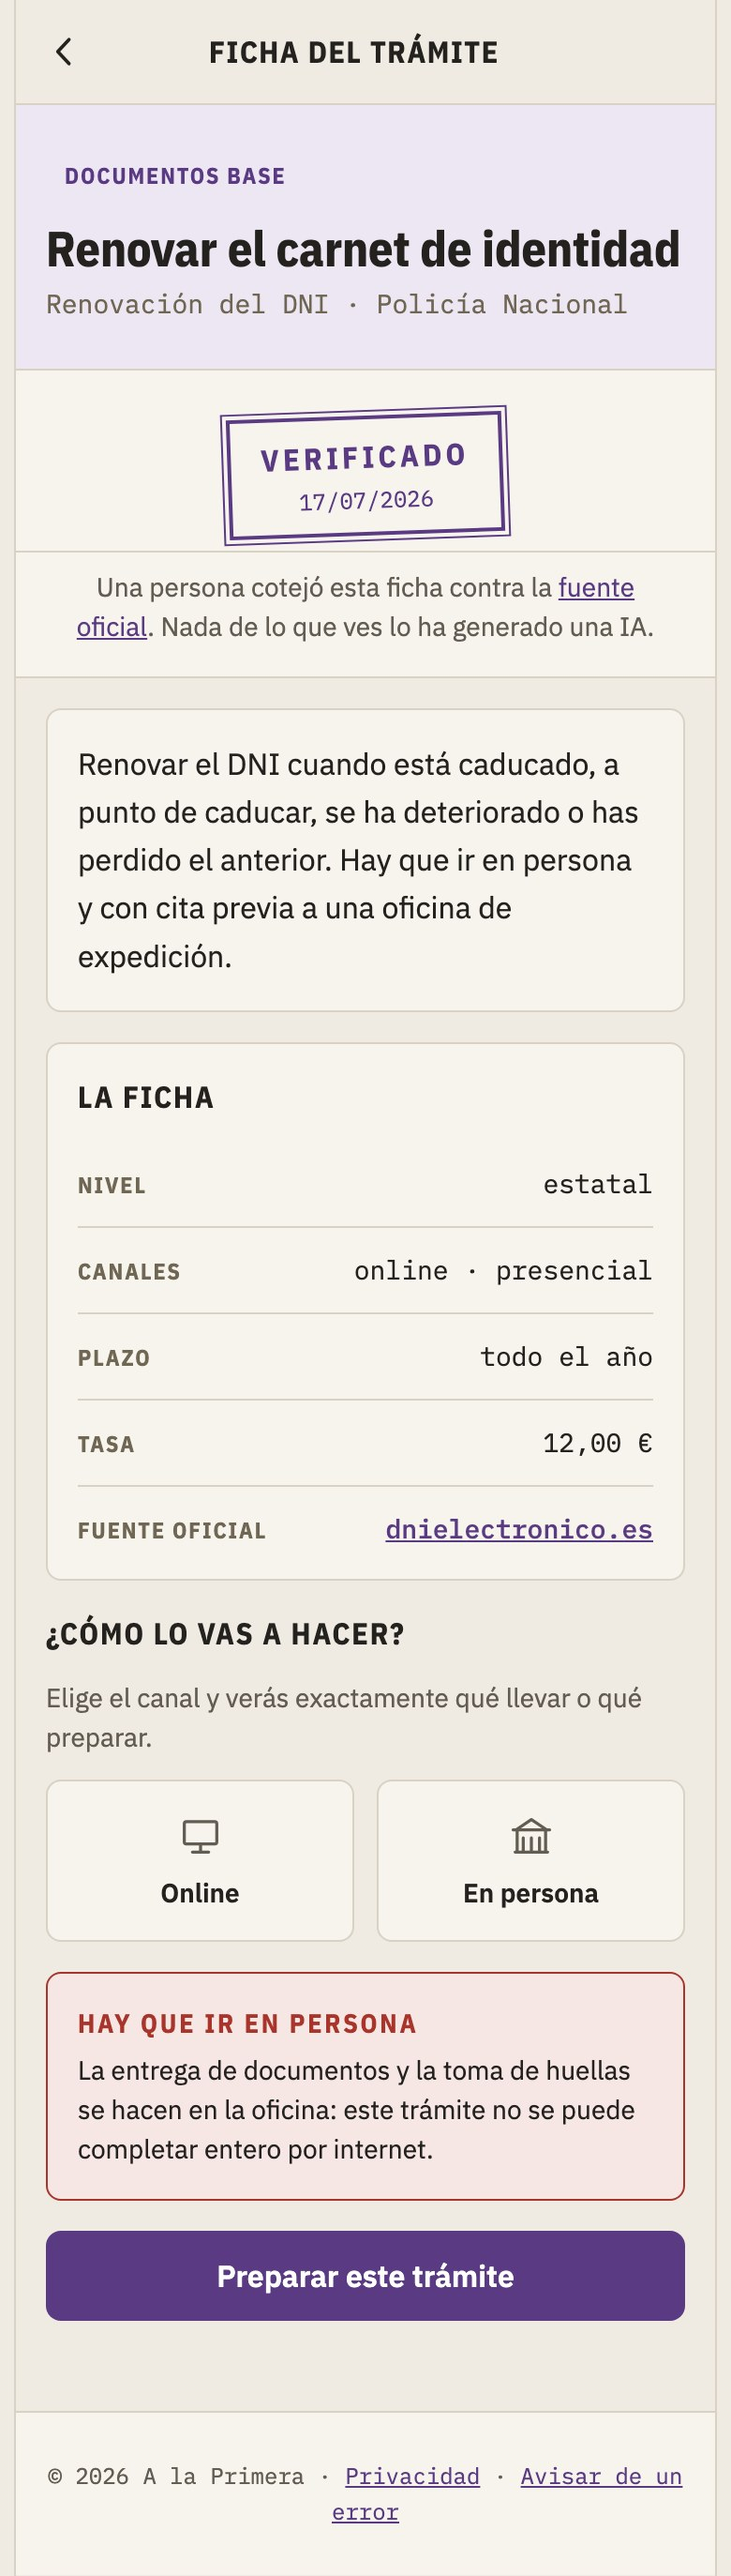
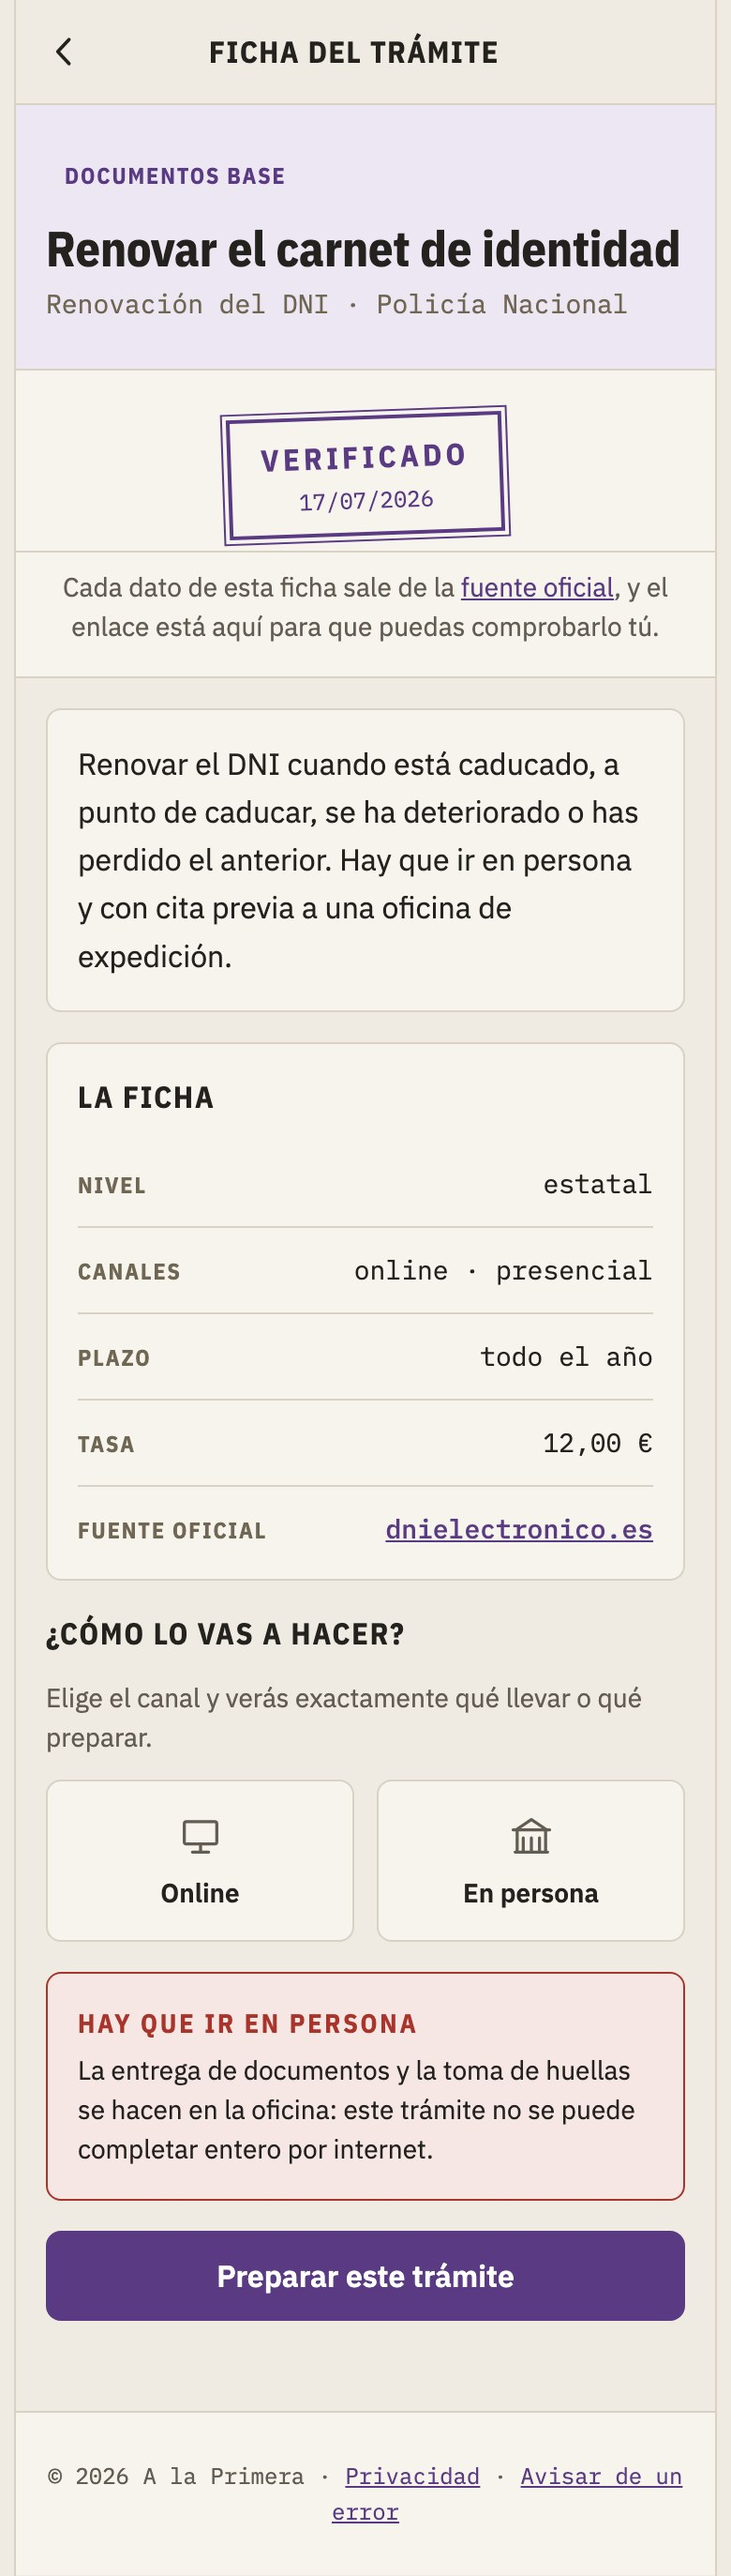
Alinear la ficha con lo que ya dice la app, y sacar la estrella del lenguaje del sello
Dos cosas que chocaban.

La maqueta decía "Una persona cotejó esta ficha contra la fuente oficial. Nada de
lo que ves lo ha generado una IA", pero la app estampa desde hace tiempo "Por
verificar · obtenida con IA · confirma en la fuente" (SelloVerificacion.tsx:34).
El producto ya era honesto y la maqueta se había quedado con una frase que además
hoy no es cierta de ninguna ficha: ninguna de las 22 tiene cotejo humano y la
extracción sí es asistida por IA. La ficha dice ahora lo que sí se sostiene: cada
dato sale de la fuente oficial y el enlace está ahí para comprobarlo.

Y en el cartel, la pantalla estrella se marcaba con un estampado igual que el
sello de verificación: mismo dibujo para dos significados, que es justo lo que
prohíbe el DESIGN.md, y encima no destacaba porque se confundía con el de dentro
de la pantalla. Pasa a una cabecera maciza con icono, que no se parece a nada del
producto.

Changed region(s): [[0.0923, 0.2167, 0.8923, 0.2476]]

diff --git a/diseño/cartel.html b/diseño/cartel.html
@@ -243,21 +243,50 @@
   }
 
   /* ── BANDA DE LA PANTALLA ESTRELLA ── */
+  /* La estrella NO se marca con un estampado: el sello girado de filete doble es el
+     elemento firma del producto y significa "estado de verificación". Usarlo aquí para
+     decir "esta pantalla es la importante" haría que el mismo dibujo signifique dos
+     cosas, que es justo lo que prohíbe el DESIGN.md. Va una cabecera maciza. */
+  .banda-estrella {
+    background-color: var(--sello-suave);
+    border: 2px solid var(--sello);
+    border-radius: 8px;
+    overflow: hidden;
+  }
+
+  .cabecera-estrella {
+    display: flex;
+    align-items: center;
+    gap: 10px;
+    margin: 0;
+    padding: 11px 28px;
+    background-color: var(--sello);
+    color: #fff;
+    font-family: var(--cond);
+    font-size: 1.0625rem;
+    font-weight: 700;
+    text-transform: uppercase;
+    letter-spacing: 0.14em;
+  }
+
+  .cabecera-estrella svg {
+    width: 19px;
+    height: 19px;
+    flex-shrink: 0;
+  }
+
   /* El teléfono de la estrella es la mitad más grande que los de la fila, y el texto va
      centrado a su altura: el aire que sobra se reparte arriba y abajo en vez de quedarse
      todo en un hueco al final. */
-  .banda-estrella {
+  .contenido-estrella {
     display: grid;
     grid-template-columns: 340px 1fr;
     align-items: center;
     gap: 36px;
     padding: 28px;
-    background-color: var(--sello-suave);
-    border: 2px solid var(--sello);
-    border-radius: 8px;
   }
 
-  .banda-estrella .columna-telefono { position: relative; }
+  .contenido-estrella .columna-telefono { position: relative; }
 
   /* Llamadas numeradas, como en una hoja de anotaciones. El número es el orden en el
      que aparecen bajando por la pantalla, no una posición dibujada encima. */
@@ -316,27 +345,7 @@
 
   /* El estampado sale del bisel y se apoya sobre él: es el elemento firma del
      sistema, y aquí hace de chincheta. */
-  .cinta-estrella {
-    position: absolute;
-    z-index: 4;
-    top: -14px;
-    left: -14px;
-    transform: rotate(-4deg);
-    padding: 7px 14px;
-    background-color: var(--papel);
-    border: 2px solid var(--sello);
-    outline: 1px solid var(--sello);
-    outline-offset: 3px;
-    font-family: var(--cond);
-    font-size: 0.875rem;
-    font-weight: 700;
-    text-transform: uppercase;
-    letter-spacing: 0.12em;
-    color: var(--sello);
-    white-space: nowrap;
-  }
-
-  .banda-estrella .nombre-estrella {
+  .contenido-estrella .nombre-estrella {
     margin: 0 0 2px;
     font-family: var(--cond);
     font-size: 1.75rem;
@@ -344,7 +353,7 @@
     line-height: 1.1;
   }
 
-  .banda-estrella .ruta {
+  .contenido-estrella .ruta {
     margin: 0 0 16px;
     font-family: var(--mono);
     font-size: 0.8125rem;
@@ -478,7 +487,7 @@
     .cartel { padding: 24px; }
     .cabecera { flex-direction: column; }
     .tarjetas, .tarjetas-3 { grid-template-columns: repeat(2, 1fr); }
-    .banda-estrella { grid-template-columns: 1fr; }
+    .contenido-estrella { grid-template-columns: 1fr; }
     .tira-pantallas { grid-template-columns: repeat(2, 1fr); }
     .cierre { grid-template-columns: 1fr; }
   }
@@ -549,8 +558,14 @@
   <p class="rotulo-apoyo">Detalle de trámite · la que aporta el valor de verdad</p>
 
   <div class="banda-estrella">
-    <div class="columna-telefono">
-      <span class="cinta-estrella">Pantalla estrella</span>
+    <p class="cabecera-estrella">
+      <svg viewBox="0 0 24 24" fill="none" stroke="currentColor" stroke-width="1.8" stroke-linecap="round" stroke-linejoin="round" aria-hidden="true">
+        <path d="M12 3.5l2.6 5.3 5.9.9-4.2 4.1 1 5.8-5.3-2.8-5.3 2.8 1-5.8-4.2-4.1 5.9-.9z"></path>
+      </svg>
+      Pantalla estrella
+    </p>
+    <div class="contenido-estrella">
+      <div class="columna-telefono">
       <div class="telefono">
         <div class="visor">
           <span class="isla"></span>
@@ -621,6 +636,7 @@
           </span>
         </div>
       </div>
+    </div>
     </div>
   </div>
 

diff --git a/diseño/pantallas/Detalle de trámite.html b/diseño/pantallas/Detalle de trámite.html
@@ -458,8 +458,8 @@
       </div>
     </div>
     <p class="nota-sello">
-      Una persona cotejó esta ficha contra la
-      <a href="#">fuente oficial</a>. Nada de lo que ves lo ha generado una IA.
+      Cada dato de esta ficha sale de la <a href="#">fuente oficial</a>, y el enlace
+      está aquí para que puedas comprobarlo tú.
     </p>
 
     <!-- CONTENIDO -->

diff --git a/diseño/imagenes/pantallas.md b/diseño/imagenes/pantallas.md
@@ -36,25 +36,25 @@ catálogo se ordena por lo que te está pasando y no por el organigrama del Esta
 ### Detalle de trámite ⭐ (pantalla estrella)
 
 **Qué hace el usuario.** Consulta toda la información del trámite: descripción, requisitos,
-datos oficiales, canales y fuente verificada.
+datos oficiales, canales y fuente.
 
-**Qué resuelve.** Saber si esta es de verdad su ficha, y si se puede fiar de ella, antes de
-invertir tiempo en preparar nada.
+**Qué resuelve.** Saber si esta es de verdad su ficha y qué le va a pedir, antes de invertir
+tiempo en preparar nada.
 
-**Por qué importa.** Es donde vive el argumento entero del producto. Una app de trámites
-solo vale si te puedes fiar de lo que dice, y aquí es donde se demuestra: el sello
-declara que una persona cotejó la ficha contra la fuente, con la fecha del cotejo, y el
-enlace a esa fuente está a un toque. Si nadie la ha mirado todavía, lo dice.
+**Por qué importa.** Es la pantalla que más trabajo ahorra. Reúne en un sitio lo que la
+administración reparte entre tres páginas: qué es el trámite, a quién aplica, cuánto cuesta,
+qué plazo tiene, por qué canales se puede hacer y de qué página oficial sale cada dato. Y
+como el enlace a esa página está en la propia ficha, no hay que creerse nada: se comprueba.
 
 **Qué se ve.**
 
-- El sello de verificación con su fecha, arriba del todo y bajo el título, no en un pie de
-  página.
-- "Una persona cotejó esta ficha contra la fuente oficial. Nada de lo que ves lo ha
-  generado una IA."
-- La ficha en pares clave/valor: nivel, canales, plazo, tasa y fuente oficial. Todo dato
-  que venga de un documento va en monoespaciada.
+- El nombre en lenguaje llano, con el administrativo debajo y en pequeño.
+- La ficha en pares clave/valor: nivel, canales, plazo, tasa y fuente oficial. Todo dato que
+  venga de un documento va en monoespaciada.
+- El enlace a la fuente, dentro de la ficha y a un toque.
 - Los avisos duros ("hay que ir en persona") antes del botón, no después.
+- El sello con la fecha de la última revisión, estampado bajo el título, para saber de
+  cuándo es lo que se está leyendo.
 
 ---
 
